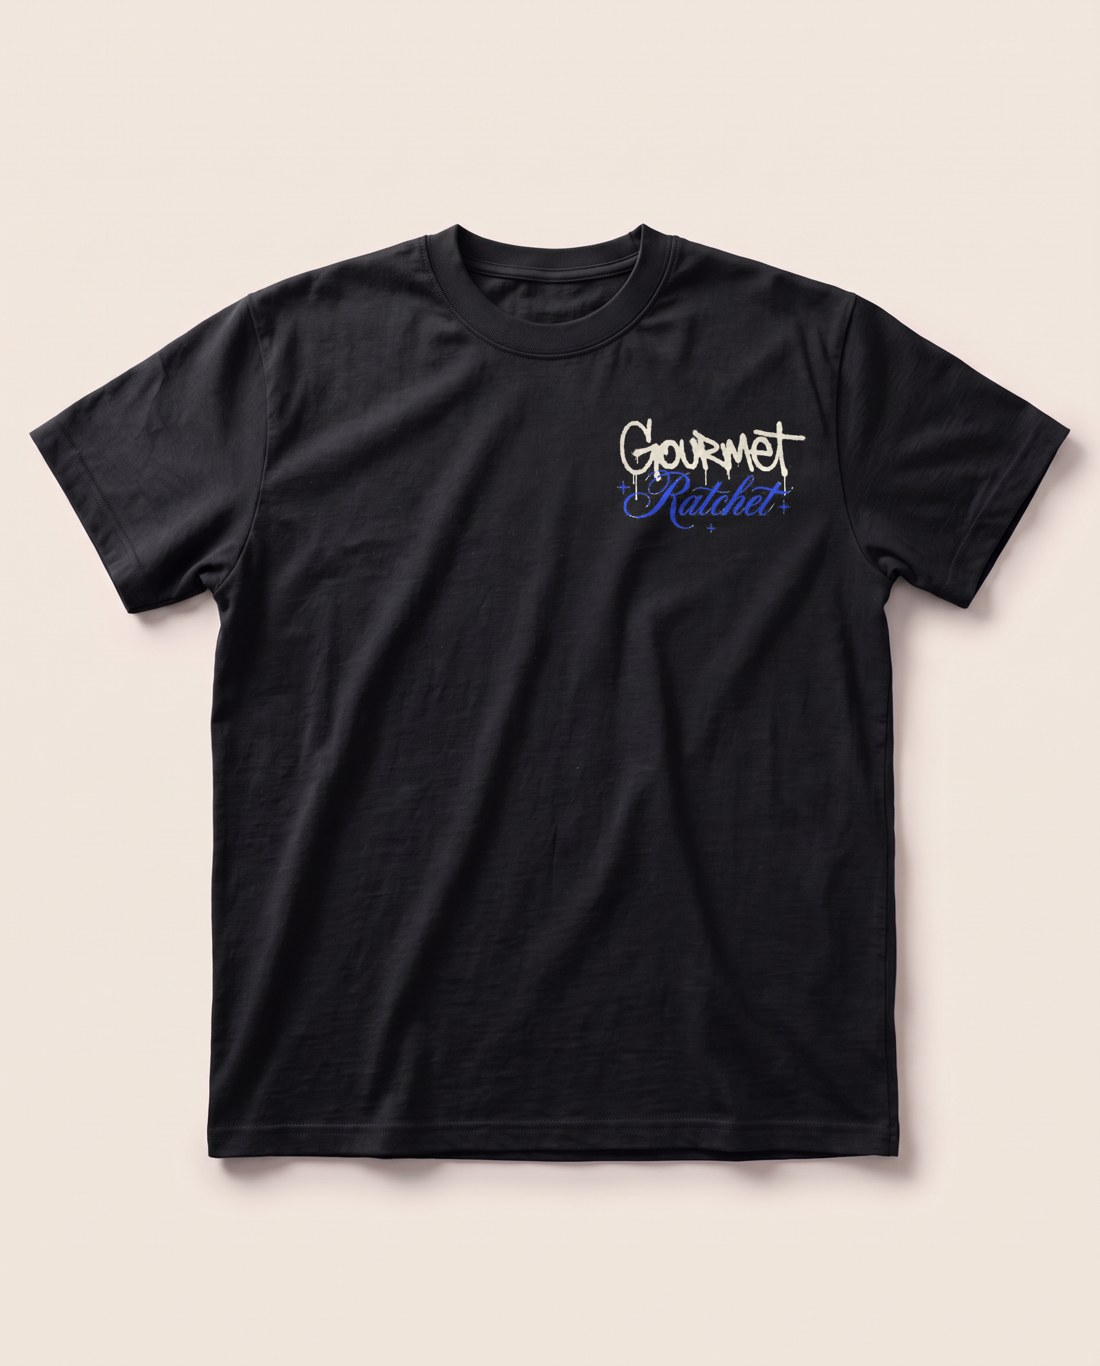
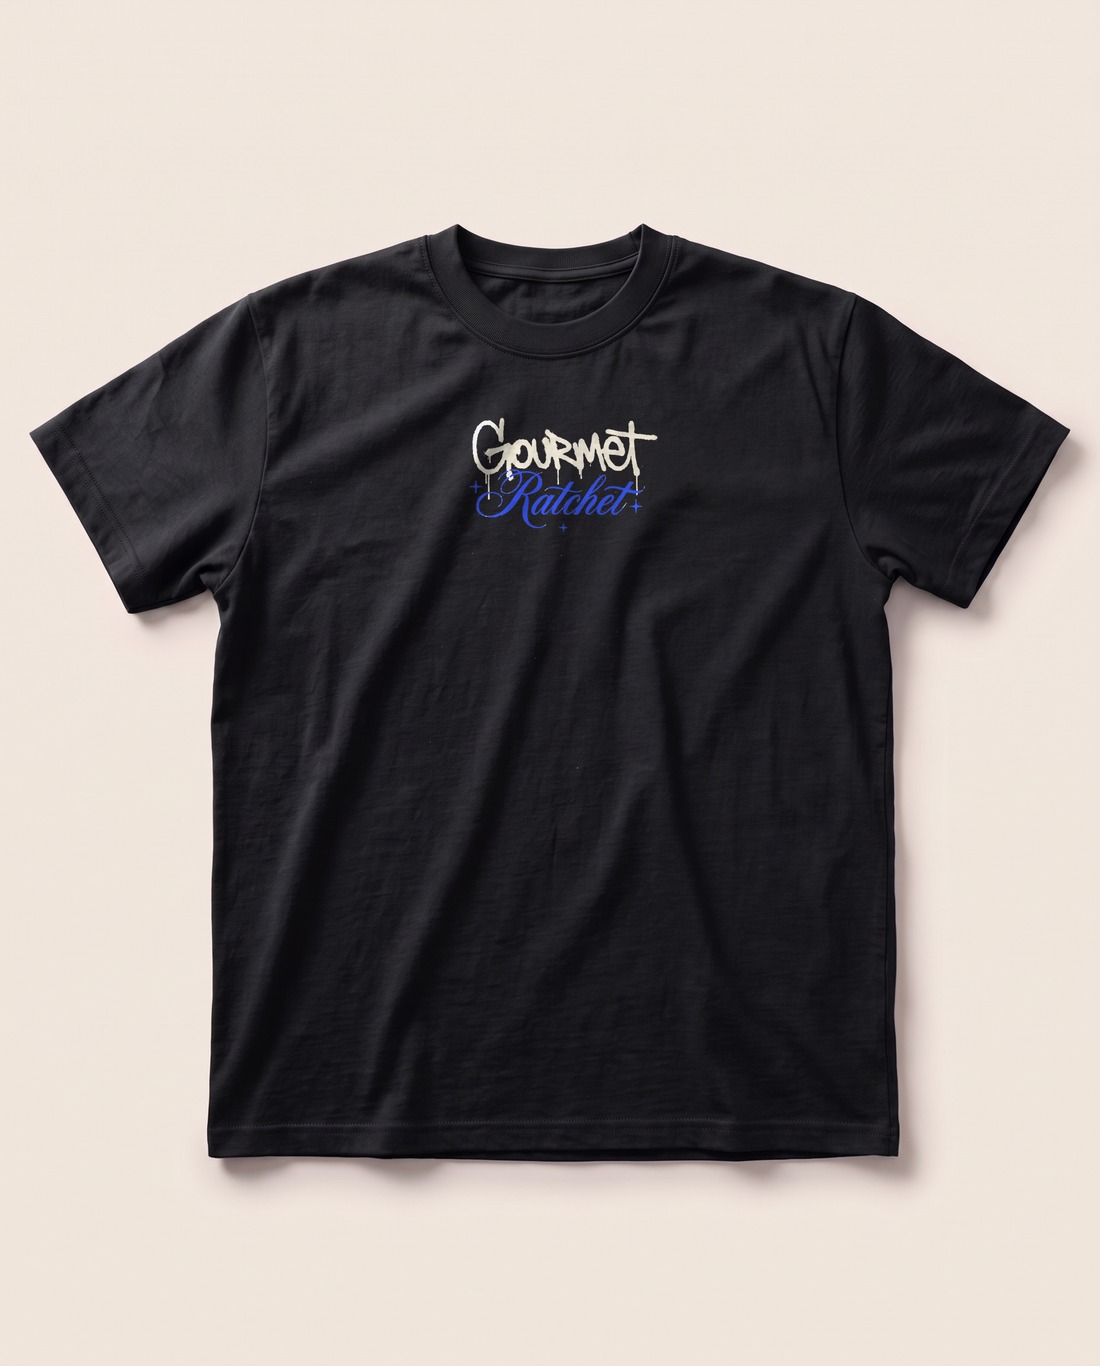
Remove Navy and move every front print to a centered chest hit
Chris Hooks, 2026-10-29: remove Navy from the site, and all pieces get
center hits on the front. Drops the Deep Navy Exclusive Tee colourway
and the Deep Navy Exclusive Muscle Tee (line is now seven pieces),
replaces the navy print-detail image, and swaps every front shot for
an interim centered-hit composite built from the real logo files.

Claude-Session: https://claude.ai/code/session_01BUxJ43D1Ry1iRFqPPwxUsy

Changed region(s): [[0.4327, 0.3075, 0.7418, 0.3997]]

diff --git a/index.html b/index.html
@@ -13,7 +13,6 @@
   --ink-2:#4A453D;     /* secondary text, warm grey toward the bone */
   --rule:#CFC6B2;      /* hairlines */
   --cobalt:#2B4CF1;    /* Exclusive accent, sampled from the tech pack */
-  --navy:#1F2A44;
   --display:"Archivo","Arial Narrow",Impact,sans-serif;
   --body:"Archivo",system-ui,-apple-system,"Segoe UI",sans-serif;
   --mono:"IBM Plex Mono",ui-monospace,"SFMono-Regular",Menlo,monospace;
@@ -305,42 +304,38 @@ const CARE_TOP = 'Turn it inside out and wash cold with like colors, then hang d
 const CARE_HOOD = 'Turn it inside out and wash cold with darks for the first few washes, then hang dry or tumble dry low. Skip the bleach and keep the iron off the print.';
 const CARE_JKT = 'Button it up, turn it inside out and wash cold on gentle, then hang it to dry. Spot clean between washes since natural canvas shows marks, and keep bleach and the iron away from the print.';
 const VARY = 'Every hoodie is acid washed, so the fade, the mottling and the exact shade of charcoal shift from piece to piece. No two alike.';
-const SW = {Black:'#1c1c1d','Deep Navy':'#1f2a44',Grey:'#9a968f',Bone:'#e8e1cf','Faded Grey':'#a49f98','Washed Charcoal':'#4b4a4c','Natural Canvas':'#e6dcc6'};
+const SW = {Black:'#1c1c1d',Grey:'#9a968f',Bone:'#e8e1cf','Faded Grey':'#a49f98','Washed Charcoal':'#4b4a4c','Natural Canvas':'#e6dcc6'};
 
 const P = [
  {h:'og-tee-black',line:'og',type:'Tees',name:'OG Tee',color:'Black',code:'GR-TE-01',price:55,img:'og-tee-black',place:'tee',sizes:SIZES,
   hook:'Bone ink on black, small on the chest and big across the back.',
-  desc:'The Gourmet Ratchet block wordmark in bone on a black tee, stacked on two lines the way it always sits. There\'s a small hit on the wearer\'s left chest and a full hit across the back, and the print is matte with hairline cracks along the fold and wear lines, so it looks lived in from the first wear.',
-  ink:'Bone',front:'Left-chest hit, wearer\'s left',back:'Full hit, centered',care:CARE_TOP,detail:1},
+  desc:'The Gourmet Ratchet block wordmark in bone on a black tee, stacked on two lines the way it always sits. There\'s a centered hit on the chest and a full hit across the back, and the print is matte with hairline cracks along the fold and wear lines, so it looks lived in from the first wear.',
+  ink:'Bone',front:'Centered chest hit',back:'Full hit, centered',care:CARE_TOP,detail:1},
  {h:'og-muscle-black',line:'og',type:'Muscle tees',name:'OG Muscle Tee',color:'Black',code:'GR-MT-01',price:50,img:'og-muscle-black',place:'muscle',sizes:SIZES,
   hook:'Sleeves off, with the mark sitting right in the middle.',
   desc:'Same block wordmark as the tee, placed differently. On the black muscle tee both hits are centered, a chest hit in the middle of the front and a full hit on the back that sits lower on the panel than anything else in the drop. The ink is bone and matte, with a worn-in crackle running through the letters.',
   ink:'Bone',front:'Centered chest hit',back:'Centered full hit, set lower',care:CARE_TOP,detail:1},
  {h:'og-crew-grey',line:'og',type:'Crewnecks',name:'OG Crewneck',color:'Faded Grey',code:'GR-CN-01',price:95,img:'og-crew-grey',place:'tee',sizes:SIZES,
   hook:'A faded gray crew with the wordmark on the front and the back.',
-  desc:'A faded gray crewneck carrying the Gourmet Ratchet block wordmark, two lines stacked tight and never stretched out. There\'s a small hit on the wearer\'s left chest and a full hit across the back, and the print comes matte and already aged, with fine cracking along the fold lines.',
-  ink:'Black front, bone back',front:'Left-chest hit, wearer\'s left',back:'Full hit, centered',care:CARE_TOP,detail:2},
+  desc:'A faded gray crewneck carrying the Gourmet Ratchet block wordmark, two lines stacked tight and never stretched out. There\'s a centered hit on the chest and a full hit across the back, and the print comes matte and already aged, with fine cracking along the fold lines.',
+  ink:'Black front, bone back',front:'Centered chest hit',back:'Full hit, centered',care:CARE_TOP,detail:2},
  {h:'og-hoodie-charcoal',line:'og',type:'Hoodies',name:'OG Hoodie',color:'Washed Charcoal',code:'GR-HD-01',price:150,img:'og-hoodie-charcoal',place:'tee',sizes:SIZES,vary:true,
   hook:'Acid-washed charcoal, so yours won\'t look like anybody else\'s.',
-  desc:'Washed charcoal hoodie with the block wordmark in bone, small on the left chest and full across the back. The acid wash leaves the body mottled and faded, and the print goes with it, matte with cracks along the fold and wear lines, so it shows up looking like it\'s been in your rotation for a couple of years.',
-  ink:'Bone',front:'Left-chest hit, wearer\'s left',back:'Full hit, centered',care:CARE_HOOD,detail:2},
+  desc:'Washed charcoal hoodie with the block wordmark in bone, centered on the chest and full across the back. The acid wash leaves the body mottled and faded, and the print goes with it, matte with cracks along the fold and wear lines, so it shows up looking like it\'s been in your rotation for a couple of years.',
+  ink:'Bone',front:'Centered chest hit',back:'Full hit, centered',care:CARE_HOOD,detail:2},
  {h:'ex-tee',line:'ex',type:'Tees',name:'Exclusive Tee',color:'4 colors',code:'GR-TE-01',price:65,img:'ex-tee-black',place:'tee',sizes:SIZES,
-  colors:[{n:'Black',img:'ex-tee-black',ink:'Bone graffiti, cobalt script'},{n:'Deep Navy',img:'ex-tee-navy',ink:'All bone'},{n:'Grey',img:'ex-tee-grey',ink:'Black graffiti, cobalt script'},{n:'Bone',img:'ex-tee-bone',ink:'Black graffiti, cobalt script'}],
-  hook:'Spray graffiti over copperplate script, in four colorways, limited.',
-  desc:'The Exclusive mark: "Gourmet" in spray graffiti with the drips left in, over "Ratchet" in copperplate script, with three sparkle stars around it. There\'s a small hit on the left chest and a full hit across the back. The ink changes with the body, bone graffiti and cobalt script on Black, black graffiti and cobalt script on Grey and Bone, and all bone on Deep Navy, and every one of them is matte with hairline cracking.',
-  ink:'Changes by color',front:'Left-chest hit, wearer\'s left',back:'Full hit, centered',care:CARE_TOP,detail:1},
- {h:'ex-muscle-navy',line:'ex',type:'Muscle tees',name:'Exclusive Muscle Tee',color:'Deep Navy',code:'GR-MT-01',price:60,img:'ex-muscle-navy',place:'muscle',sizes:SIZES,hideFront:true,
-  hook:'All bone on deep navy, with both hits centered.',
-  desc:'The Exclusive mark on a deep navy muscle tee: graffiti "Gourmet" over copperplate "Ratchet" and three sparkle stars, every bit of it in bone, because cobalt gets lost on navy. Both hits are centered like the OG muscle tee, with the back hit sitting lower on the panel, and the print is matte with an aged crack running through it.',
-  ink:'All bone',front:'Centered chest hit',back:'Centered full hit, set lower',care:CARE_TOP,detail:1},
+  colors:[{n:'Black',img:'ex-tee-black',ink:'Bone graffiti, cobalt script'},{n:'Grey',img:'ex-tee-grey',ink:'Black graffiti, cobalt script'},{n:'Bone',img:'ex-tee-bone',ink:'Black graffiti, cobalt script'}],
+  hook:'Spray graffiti over copperplate script, in three colorways, limited.',
+  desc:'The Exclusive mark: "Gourmet" in spray graffiti with the drips left in, over "Ratchet" in copperplate script, with three sparkle stars around it. There\'s a centered hit on the chest and a full hit across the back. The ink changes with the body, bone graffiti and cobalt script on Black, and black graffiti and cobalt script on Grey and Bone, and every one of them is matte with hairline cracking.',
+  ink:'Changes by color',front:'Centered chest hit',back:'Full hit, centered',care:CARE_TOP,detail:1},
  {h:'ex-crew-grey',line:'ex',type:'Crewnecks',name:'Exclusive Crewneck',color:'Faded Grey',code:'GR-CN-01',price:110,img:'ex-crew-grey',place:'tee',sizes:SIZES,
   hook:'Black graffiti and cobalt script on a faded gray crew.',
-  desc:'Faded gray crewneck with the Exclusive mark: black spray graffiti with the drips still running, cobalt copperplate script underneath, and three sparkle stars around the script. It takes a left-chest hit on the front and a full hit across the back, and both inks come out matte with cracking along the fold lines, cobalt included.',
-  ink:'Black graffiti, cobalt script',front:'Left-chest hit, wearer\'s left',back:'Full hit, centered',care:CARE_TOP,detail:2},
+  desc:'Faded gray crewneck with the Exclusive mark: black spray graffiti with the drips still running, cobalt copperplate script underneath, and three sparkle stars around the script. It takes a centered chest hit on the front and a full hit across the back, and both inks come out matte with cracking along the fold lines, cobalt included.',
+  ink:'Black graffiti, cobalt script',front:'Centered chest hit',back:'Full hit, centered',care:CARE_TOP,detail:2},
  {h:'ex-hoodie-charcoal',line:'ex',type:'Hoodies',name:'Exclusive Hoodie',color:'Washed Charcoal',code:'GR-HD-01',price:165,img:'ex-hoodie-charcoal',place:'tee',sizes:SIZES,vary:true,
   hook:'Bone graffiti and cobalt script on acid-washed charcoal.',
-  desc:'Washed charcoal hoodie with the Exclusive mark in two inks, bone spray graffiti on top and cobalt copperplate script underneath with three sparkle stars, small on the left chest and full across the back. The cobalt cracks along the fold lines the same way the bone does, so the color looks like it aged right along with the acid wash.',
-  ink:'Bone graffiti, cobalt script',front:'Left-chest hit, wearer\'s left',back:'Full hit, centered',care:CARE_HOOD,detail:2},
+  desc:'Washed charcoal hoodie with the Exclusive mark in two inks, bone spray graffiti on top and cobalt copperplate script underneath with three sparkle stars, centered on the chest and full across the back. The cobalt cracks along the fold lines the same way the bone does, so the color looks like it aged right along with the acid wash.',
+  ink:'Bone graffiti, cobalt script',front:'Centered chest hit',back:'Full hit, centered',care:CARE_HOOD,detail:2},
 ];
 const byH = Object.fromEntries(P.map(p=>[p.h,p]));
 const OG = P.filter(p=>p.line==='og'), EX = P.filter(p=>p.line==='ex');
@@ -391,11 +386,11 @@ function home(){
     <div>
       <p class="mono muted">The new season</p>
       <h2 class="disp" style="margin-top:14px">Matte print. Cracked on purpose.</h2>
-      <p class="muted">Two marks, eight pieces, and every one gets printed when you order it. The finish is matte, with hairline cracks along the fold and wear lines.</p>
+      <p class="muted">Two marks, seven pieces, and every one gets printed when you order it. The finish is matte, with hairline cracks along the fold and wear lines.</p>
       <div class="specline mono muted"><span>Bone ink on dark bodies</span><span>Black ink on gray and bone</span><span>Cobalt on the Exclusive</span></div>
     </div>
     <div class="details">
-      <figure><img src="${IMG('print-detail-1')}" alt="Bone graffiti and script on navy, close up" loading="lazy"><figcaption class="mono muted">Bone on navy</figcaption></figure>
+      <figure><img src="${IMG('detail-ex-tee-black')}" alt="Exclusive mark in bone and cobalt on black, close up" loading="lazy"><figcaption class="mono muted">Exclusive on black</figcaption></figure>
       <figure><img src="${IMG('print-detail-2')}" alt="Cobalt script cracking on charcoal, close up" loading="lazy"><figcaption class="mono muted">Cobalt on charcoal</figcaption></figure>
       <figure><img src="${IMG('detail-og-tee-black')}" alt="OG wordmark in bone on black, close up" loading="lazy"><figcaption class="mono muted">OG on black</figcaption></figure>
     </div>
@@ -421,7 +416,7 @@ function collection(line){
   const ex = line==='ex', list = ex?EX:OG;
   const types = ['All',...new Set(list.map(p=>p.type))];
   const intro = ex
-    ? 'The Exclusive puts "Gourmet" in spray graffiti, drips and all, over "Ratchet" in copperplate script, with exactly three sparkle stars. Cobalt shows up wherever the body can carry it, and the navy pieces go all bone.'
+    ? 'The Exclusive puts "Gourmet" in spray graffiti, drips and all, over "Ratchet" in copperplate script, with exactly three sparkle stars. Cobalt shows up wherever the body can carry it.'
     : 'The OG Drop runs the main Gourmet Ratchet wordmark, two lines, stacked flush, never stretched. Four pieces: a tee, a muscle tee, a faded gray crew and an acid-washed charcoal hoodie. Every piece is printed when you order it.';
   return `<div class="${ex?'dark ex-page':''}">
   <section class="colhead sec" data-shopify="Collection banner" style="${ex?'border-color:var(--bone)':''}"><div class="wrap">
@@ -443,8 +438,8 @@ function tee(kind,side){
   const bx = kind==='muscle'?44:48, bw = kind==='muscle'?112:104, top=4, len=208;
   let r;
   if(side==='front'){
-    const w=bw*.24, h=w*.44, y=top+len*.32;
-    const x = kind==='muscle' ? 100-w/2 : 100+6;
+    const w=bw*(kind==='muscle'?.24:.26), h=w*.44, y=top+len*(kind==='muscle'?.32:.22);
+    const x = 100-w/2;
     r={x,y,w,h};
   } else {
     const w=bw*.46, h=w*.44, y= top+len*(kind==='muscle'?.30:.20);
@@ -465,7 +460,7 @@ function pdp(h){
   const related = (p.line==='og'?OG:EX).filter(x=>x.h!==p.h).slice(0,4);
   const placeTxt = p.place==='muscle'
     ? 'Front: centered chest hit, 24% of body width. Back: centered full hit, 46% of body width, set lower on the back panel.'
-    : 'Front: chest hit at 24% of body width, wearer\'s left, top 32% down. Back: full hit at 46% of body width, centered, top 20% down.';
+    : 'Front: centered chest hit. Back: full hit at 46% of body width, centered, top 20% down.';
   const html = `
   <section class="sec" data-shopify="Main product (gallery left, buy box right)"><div class="wrap pdp">
     <div class="mhead"><div class="crumb mono muted"><a href="#${p.line==='og'?'og':'exclusive'}">${p.line==='og'?'OG Drop':'Exclusive'}</a><span>/</span><span>${p.code}</span></div><h1 class="disp" style="font-size:44px">${p.name}</h1><div class="price"><span>${money(p.price)}</span></div></div>
@@ -541,7 +536,7 @@ function about(){
     <div class="twocol">
       <div class="prose">
         <p style="font-size:21px;line-height:1.4">Imperfect but excellent.</p>
-        <p>This season runs two marks across eight pieces, every one printed when you order it.</p>
+        <p>This season runs two marks across seven pieces, every one printed when you order it.</p>
         <h3>Two marks</h3>
         <p>The OG Drop carries the block wordmark, two lines stacked tight. The Exclusive puts spray graffiti over copperplate script and runs as a limited drop.</p>
         <p>Every piece is printed when you order it.</p>
